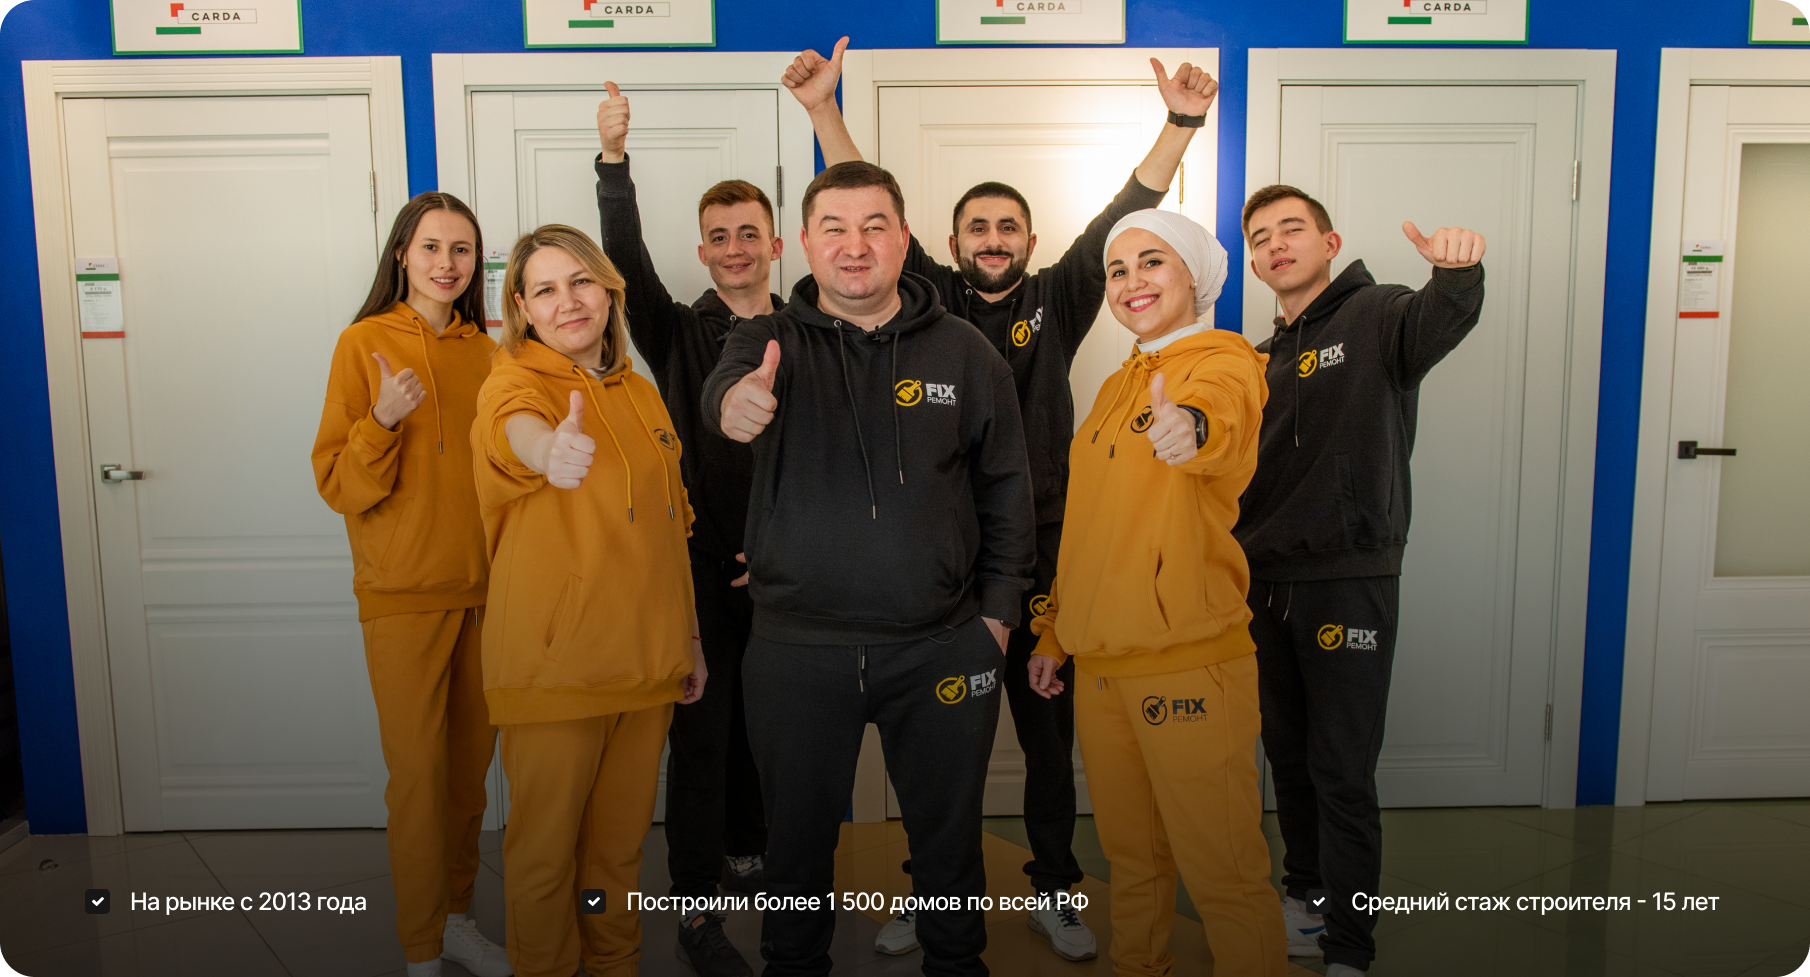
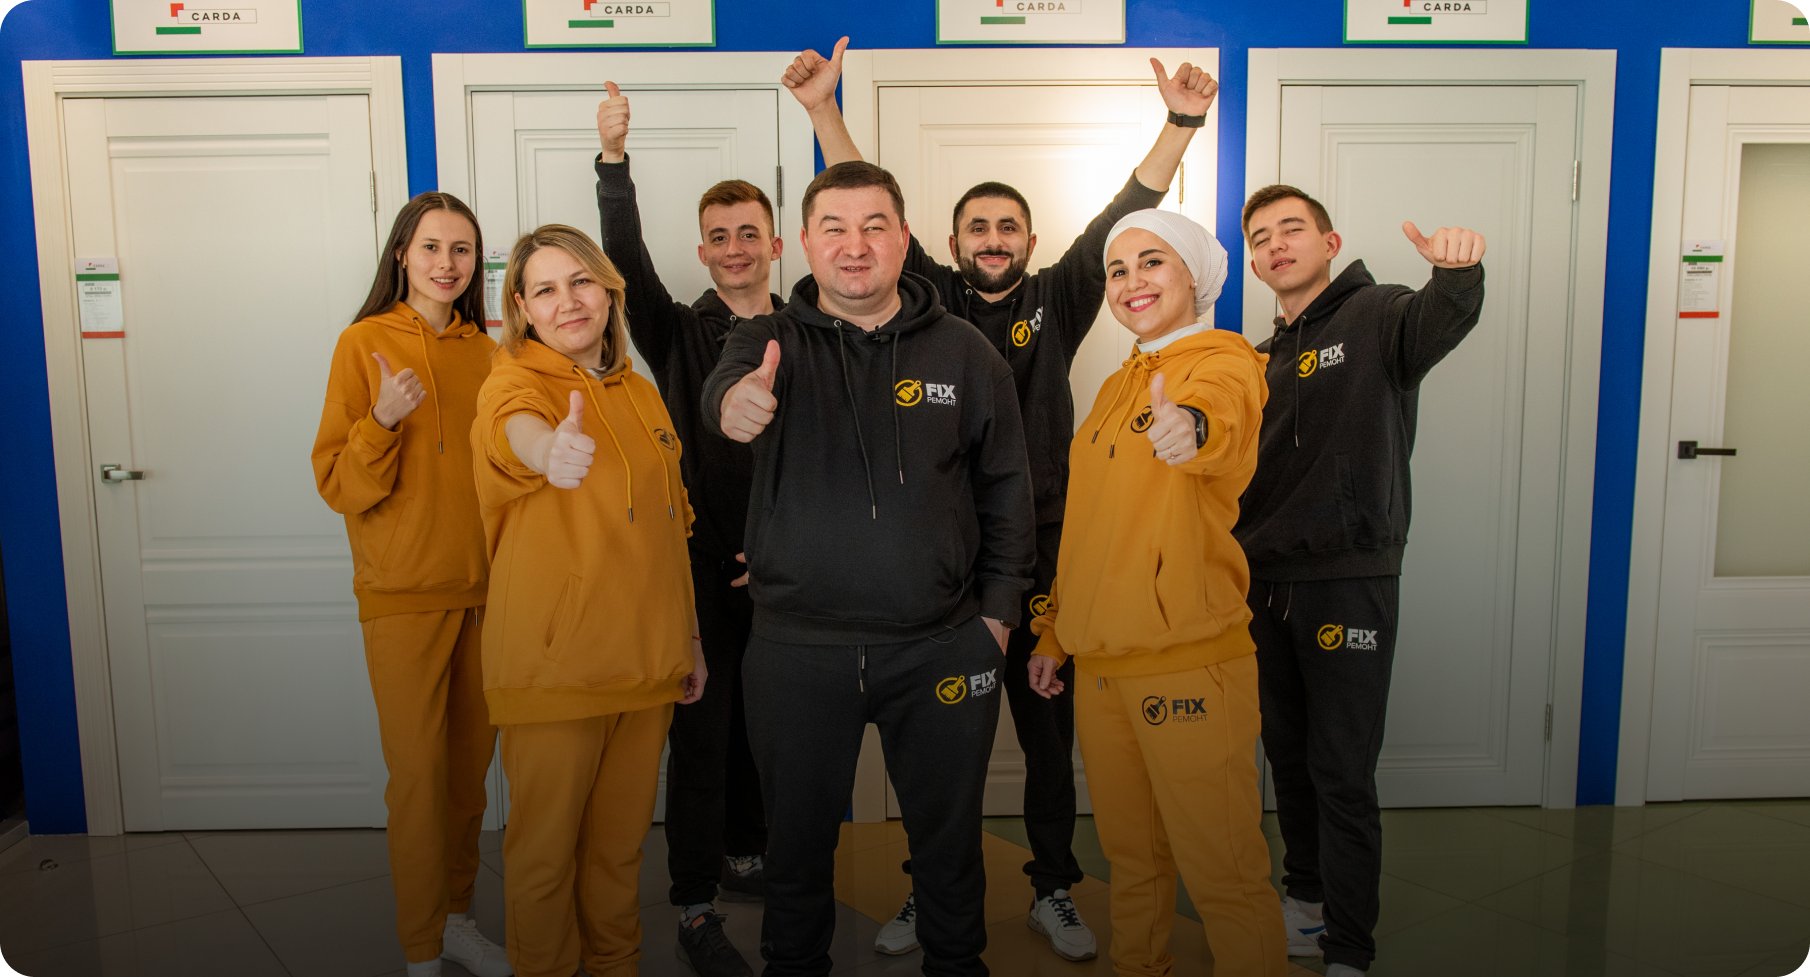
refactor: GroupPhoto

Changed region(s): [[0.3094, 0.8905, 0.5878, 0.9519], [0.7116, 0.9212, 0.9591, 0.9519], [0.0309, 0.8905, 0.2166, 0.9519]]

diff --git a/src/components/widgets/GroupPhoto/GroupPhoto.tsx b/src/components/widgets/GroupPhoto/GroupPhoto.tsx
@@ -1,7 +1,11 @@
 import React from 'react'
 import Image from 'next/image'
-import groupPhoto from '../../../../public/assets/img/groupPhoto.png'
+
+import style from './groupPhoto.module.scss'
+
 import CheckButton from '@/components/shared/buttons/Check Button/CheckButton'
+
+import tick from '../../../../public/assets/svg/tickBlack.svg'
 
 function Presentation() {
   return (
@@ -10,13 +14,23 @@ function Presentation() {
         Над вашим объектом будет работать команда{' '}
         <span className="orange-bold">настоящих фанатов</span> своего дела
       </h1>
-      <div className="w-full px-4">
-        <Image
-          src={groupPhoto as unknown as string}
-          alt="group photo"
-          className="rounded-lg"
-          quality={100}
-        />
+      <div className={`${style.bg} flex h-screen w-full flex-col-reverse rounded-3xl p-10`}>
+        <div className="grid w-full grid-cols-3">
+          <div className="flex flex-row items-center justify-center gap-x-4">
+            <Image src={tick as string} alt="black tick" width={15} />
+            <p className="text-bas4 font-normal text-white">На рынке с 2013 года</p>
+          </div>
+          <div className="flex flex-row items-center justify-center gap-x-4">
+            <Image src={tick as string} alt="black tick" width={15} />
+            <p className="text-bas4 font-normal text-white">
+              Построили более 1 500 домов по всей РФ
+            </p>
+          </div>
+          <div className="flex flex-row items-center justify-center gap-x-4">
+            <Image src={tick as string} alt="black tick" width={15} />
+            <p className="text-bas4 font-normal text-white">Стаж строителей - 15 лет</p>
+          </div>
+        </div>
       </div>
       <div className="button_container h-16 w-full">
         <CheckButton

diff --git a/src/components/widgets/GroupPhoto/groupPhoto.module.css b/src/components/widgets/GroupPhoto/groupPhoto.module.css
@@ -1,0 +1,7 @@
+.bg {
+  background-image: url('../../../../public/assets/img/groupPhoto.png');
+  background-position: center;
+  background-size: cover;
+}
+
+/*# sourceMappingURL=groupPhoto.module.css.map */

diff --git a/src/components/widgets/GroupPhoto/groupPhoto.module.scss b/src/components/widgets/GroupPhoto/groupPhoto.module.scss
@@ -1,0 +1,5 @@
+.bg {
+  background-image: url('../../../../public/assets/img/groupPhoto.png');
+  background-position: center;
+  background-size: cover;
+}
